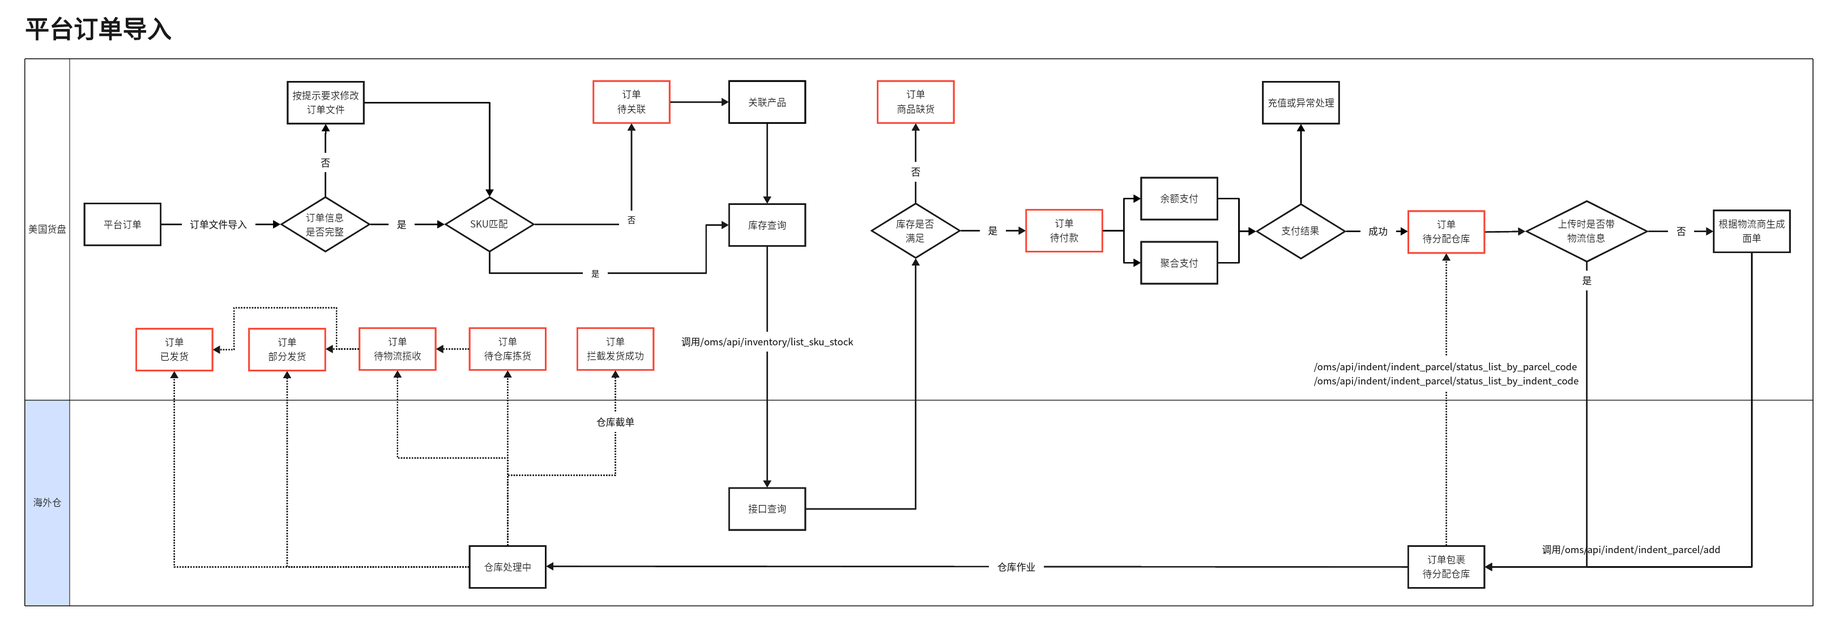
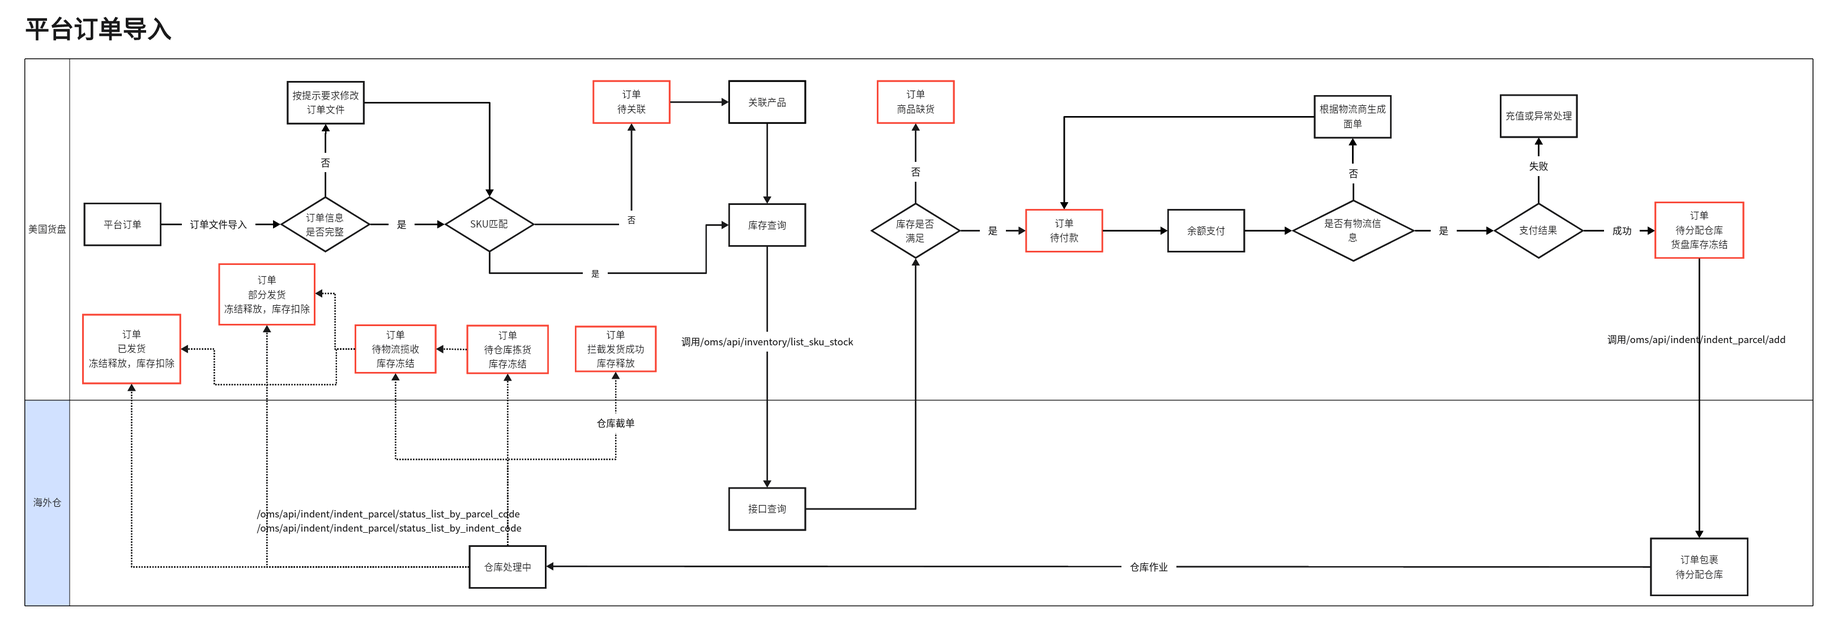
完善流程标注和页面展示

diff --git a/inbound.html b/inbound.html
@@ -37,7 +37,7 @@
 [data-html-annotator-inline-panel] .html-annotator-inline-tags { margin-top: 8px; color: #94a3b8; font-size: 11px; }
 </style></head>
 <body data-page="inbound" class="">
-<aside class="app-nav"><div class="nav-brand"><svg viewBox="0 0 24 24" fill="none" stroke="currentColor" stroke-width="1.8" aria-hidden="true"><path d="M3 9l9-7 9 7v11a2 2 0 0 1-2 2H5a2 2 0 0 1-2-2z"></path><path d="M9 22V12h6v10"></path></svg><span>工作管理平台</span></div><nav class="nav-list" aria-label="主导航"><a class="nav-primary" href="global-overview.html" data-nav="global-overview" title="全局说明"><svg viewBox="0 0 24 24" fill="none" stroke="currentColor" stroke-width="1.8" aria-hidden="true"><circle cx="12" cy="12" r="9"></circle><path d="M3 12h18M12 3a15 15 0 0 1 0 18M12 3a15 15 0 0 0 0 18"></path></svg><span>全局说明</span></a><div class="nav-group nav-hover-group nav-group-current"><div class="nav-group-toggle" tabindex="0" title="海外仓"><svg viewBox="0 0 24 24" fill="none" stroke="currentColor" stroke-width="1.8" aria-hidden="true"><path d="M4 7.5 12 3l8 4.5v9L12 21l-8-4.5z"></path><path d="m4 7.5 8 4.5 8-4.5M12 12v9"></path></svg><span>海外仓</span><svg class="nav-chevron" viewBox="0 0 24 24" fill="none" stroke="currentColor" stroke-width="2" aria-hidden="true"><path d="m7 10 5 5 5-5"></path></svg></div><div class="nav-children"><a class="nav-child active" href="inbound.html" data-nav="inbound">入库单管理</a><a class="nav-child" href="order-management.html" data-nav="orders">订单管理</a><a class="nav-child" href="index.html" data-nav="sku">库存管理</a><a class="nav-child" href="cargo-tray-management.html" data-nav="tray-management">美国货盘管理</a></div></div><div class="nav-group nav-hover-group"><div class="nav-group-toggle" tabindex="0" title="物流中心"><svg viewBox="0 0 24 24" fill="none" stroke="currentColor" stroke-width="1.8" aria-hidden="true"><path d="M3 6h11v11H3zM14 10h4l3 3v4h-7z"></path><circle cx="7" cy="19" r="2"></circle><circle cx="18" cy="19" r="2"></circle></svg><span>物流中心</span><svg class="nav-chevron" viewBox="0 0 24 24" fill="none" stroke="currentColor" stroke-width="2" aria-hidden="true"><path d="m7 10 5 5 5-5"></path></svg></div><div class="nav-children"><a class="nav-child" href="packaging-shipping.html" data-nav="packaging-shipping">包装发货</a></div></div><a class="nav-primary" href="cargo-tray-v2.html" data-nav="tray-v2" title="美国货盘"><svg viewBox="0 0 24 24" fill="none" stroke="currentColor" stroke-width="1.8" aria-hidden="true"><rect x="3" y="3" width="7" height="7" rx="1"></rect><rect x="14" y="3" width="7" height="7" rx="1"></rect><rect x="3" y="14" width="7" height="7" rx="1"></rect><rect x="14" y="14" width="7" height="7" rx="1"></rect></svg><span>美国货盘</span></a></nav><div class="nav-footer"></div></aside>
+<aside class="app-nav"><div class="nav-brand"><svg viewBox="0 0 24 24" fill="none" stroke="currentColor" stroke-width="1.8" aria-hidden="true"><path d="M3 9l9-7 9 7v11a2 2 0 0 1-2 2H5a2 2 0 0 1-2-2z"></path><path d="M9 22V12h6v10"></path></svg><span>工作管理平台</span></div><nav class="nav-list" aria-label="主导航"><a class="nav-primary" href="global-overview.html" data-nav="global-overview" title="业务流程"><svg viewBox="0 0 24 24" fill="none" stroke="currentColor" stroke-width="1.8" aria-hidden="true"><circle cx="12" cy="12" r="9"></circle><path d="M3 12h18M12 3a15 15 0 0 1 0 18M12 3a15 15 0 0 0 0 18"></path></svg><span>业务流程</span></a><div class="nav-group nav-hover-group nav-group-current"><div class="nav-group-toggle" tabindex="0" title="海外仓"><svg viewBox="0 0 24 24" fill="none" stroke="currentColor" stroke-width="1.8" aria-hidden="true"><path d="M4 7.5 12 3l8 4.5v9L12 21l-8-4.5z"></path><path d="m4 7.5 8 4.5 8-4.5M12 12v9"></path></svg><span>海外仓</span><svg class="nav-chevron" viewBox="0 0 24 24" fill="none" stroke="currentColor" stroke-width="2" aria-hidden="true"><path d="m7 10 5 5 5-5"></path></svg></div><div class="nav-children"><a class="nav-child active" href="inbound.html" data-nav="inbound">入库单管理</a><a class="nav-child" href="order-management.html" data-nav="orders">订单管理</a><a class="nav-child" href="index.html" data-nav="sku">库存管理</a><a class="nav-child" href="cargo-tray-management.html" data-nav="tray-management">美国货盘管理</a></div></div><div class="nav-group nav-hover-group"><div class="nav-group-toggle" tabindex="0" title="物流中心"><svg viewBox="0 0 24 24" fill="none" stroke="currentColor" stroke-width="1.8" aria-hidden="true"><path d="M3 6h11v11H3zM14 10h4l3 3v4h-7z"></path><circle cx="7" cy="19" r="2"></circle><circle cx="18" cy="19" r="2"></circle></svg><span>物流中心</span><svg class="nav-chevron" viewBox="0 0 24 24" fill="none" stroke="currentColor" stroke-width="2" aria-hidden="true"><path d="m7 10 5 5 5-5"></path></svg></div><div class="nav-children"><a class="nav-child" href="packaging-shipping.html" data-nav="packaging-shipping">包装发货</a></div></div><a class="nav-primary" href="cargo-tray-v2.html" data-nav="tray-v2" title="美国货盘"><svg viewBox="0 0 24 24" fill="none" stroke="currentColor" stroke-width="1.8" aria-hidden="true"><rect x="3" y="3" width="7" height="7" rx="1"></rect><rect x="14" y="3" width="7" height="7" rx="1"></rect><rect x="3" y="14" width="7" height="7" rx="1"></rect><rect x="14" y="14" width="7" height="7" rx="1"></rect></svg><span>美国货盘</span></a></nav><div class="nav-footer"></div></aside>
 <div class="app-content inbound-app-content"><div class="topbar"><div class="topbar-left"><label class="bm-search"><svg viewBox="0 0 24 24" fill="none" stroke="currentColor" stroke-width="2" aria-hidden="true"><circle cx="11" cy="11" r="7"></circle><path d="m20 20-4-4"></path></svg><input type="search" placeholder="请输入菜单" aria-label="搜索菜单"></label><h1>入库单管理</h1></div><div class="topbar-right"><div class="user"><button class="avatar" type="button" data-role-avatar="" aria-haspopup="dialog" aria-label="切换身份" title="切换身份">超</button></div></div></div><div class="bm-page-tabs"><div class="bm-page-tab active">入库单管理<button type="button" aria-label="关闭页面标签">×</button></div></div>
 <main class="inbound-page-body">
 <section class="inbound-filter-bar" aria-label="入库单筛选"><label class="inbound-filter-field"><span>分配仓库</span><select id="warehouse-filter" data-annotation-id="ann-1788939895866"><option>德州1号仓库</option><option>美西仓(洛杉矶)</option></select></label><label class="inbound-filter-field status-filter"><span>状态</span><select id="status-filter" data-annotation-id="ann-1788940701475"><option value="">状态</option><option>草稿</option><option>运输中</option><option>部分入库</option><option>全部入库</option><option>全部已上架</option><option>已取消</option></select></label><div class="inbound-filter-actions"><button class="inbound-primary-btn" id="inbound-search" type="button" data-annotation-id="ann-1788942127182"><svg viewBox="0 0 24 24"><circle cx="11" cy="11" r="7"></circle><path d="m20 20-4-4"></path></svg>搜索</button><button class="inbound-reset-btn" id="inbound-reset" type="button" data-annotation-id="ann-1788942135126"><svg viewBox="0 0 24 24"><path d="M4 12a8 8 0 0 1 13.7-5.6L20 9"></path><path d="M20 4v5h-5"></path><path d="M20 12a8 8 0 0 1-13.7 5.6L4 15"></path><path d="M4 20v-5h5"></path></svg>重置</button></div></section>

diff --git a/order-management.html b/order-management.html
@@ -36,7 +36,7 @@
 .notes-content .notes-document input[type="checkbox"] { margin-right:6px; }
 .notes-content .notes-document hr { margin:18px 0; border:0; border-top:1px solid #e2e8f0; }
 </style></head><body data-page="orders" class="">
-<aside class="app-nav"><div class="nav-brand"><svg viewBox="0 0 24 24" fill="none" stroke="currentColor" stroke-width="1.8" aria-hidden="true"><path d="M3 9l9-7 9 7v11a2 2 0 0 1-2 2H5a2 2 0 0 1-2-2z"></path><path d="M9 22V12h6v10"></path></svg><span>工作管理平台</span></div><nav class="nav-list" aria-label="主导航"><a class="nav-primary" href="global-overview.html" data-nav="global-overview" title="全局说明"><svg viewBox="0 0 24 24" fill="none" stroke="currentColor" stroke-width="1.8" aria-hidden="true"><circle cx="12" cy="12" r="9"></circle><path d="M3 12h18M12 3a15 15 0 0 1 0 18M12 3a15 15 0 0 0 0 18"></path></svg><span>全局说明</span></a><div class="nav-group nav-hover-group nav-group-current"><div class="nav-group-toggle" tabindex="0" title="海外仓"><svg viewBox="0 0 24 24" fill="none" stroke="currentColor" stroke-width="1.8" aria-hidden="true"><path d="M4 7.5 12 3l8 4.5v9L12 21l-8-4.5z"></path><path d="m4 7.5 8 4.5 8-4.5M12 12v9"></path></svg><span>海外仓</span><svg class="nav-chevron" viewBox="0 0 24 24" fill="none" stroke="currentColor" stroke-width="2" aria-hidden="true"><path d="m7 10 5 5 5-5"></path></svg></div><div class="nav-children"><a class="nav-child" href="inbound.html" data-nav="inbound">入库单管理</a><a class="nav-child active" href="order-management.html" data-nav="orders">订单管理</a><a class="nav-child" href="index.html" data-nav="sku">库存管理</a><a class="nav-child" href="cargo-tray-management.html" data-nav="tray-management">美国货盘管理</a></div></div><div class="nav-group nav-hover-group"><div class="nav-group-toggle" tabindex="0" title="物流中心"><svg viewBox="0 0 24 24" fill="none" stroke="currentColor" stroke-width="1.8" aria-hidden="true"><path d="M3 6h11v11H3zM14 10h4l3 3v4h-7z"></path><circle cx="7" cy="19" r="2"></circle><circle cx="18" cy="19" r="2"></circle></svg><span>物流中心</span><svg class="nav-chevron" viewBox="0 0 24 24" fill="none" stroke="currentColor" stroke-width="2" aria-hidden="true"><path d="m7 10 5 5 5-5"></path></svg></div><div class="nav-children"><a class="nav-child" href="packaging-shipping.html" data-nav="packaging-shipping">包装发货</a></div></div><a class="nav-primary" href="cargo-tray-v2.html" data-nav="tray-v2" title="美国货盘"><svg viewBox="0 0 24 24" fill="none" stroke="currentColor" stroke-width="1.8" aria-hidden="true"><rect x="3" y="3" width="7" height="7" rx="1"></rect><rect x="14" y="3" width="7" height="7" rx="1"></rect><rect x="3" y="14" width="7" height="7" rx="1"></rect><rect x="14" y="14" width="7" height="7" rx="1"></rect></svg><span>美国货盘</span></a></nav><div class="nav-footer"></div></aside>
+<aside class="app-nav"><div class="nav-brand"><svg viewBox="0 0 24 24" fill="none" stroke="currentColor" stroke-width="1.8" aria-hidden="true"><path d="M3 9l9-7 9 7v11a2 2 0 0 1-2 2H5a2 2 0 0 1-2-2z"></path><path d="M9 22V12h6v10"></path></svg><span>工作管理平台</span></div><nav class="nav-list" aria-label="主导航"><a class="nav-primary" href="global-overview.html" data-nav="global-overview" title="业务流程"><svg viewBox="0 0 24 24" fill="none" stroke="currentColor" stroke-width="1.8" aria-hidden="true"><circle cx="12" cy="12" r="9"></circle><path d="M3 12h18M12 3a15 15 0 0 1 0 18M12 3a15 15 0 0 0 0 18"></path></svg><span>业务流程</span></a><div class="nav-group nav-hover-group nav-group-current"><div class="nav-group-toggle" tabindex="0" title="海外仓"><svg viewBox="0 0 24 24" fill="none" stroke="currentColor" stroke-width="1.8" aria-hidden="true"><path d="M4 7.5 12 3l8 4.5v9L12 21l-8-4.5z"></path><path d="m4 7.5 8 4.5 8-4.5M12 12v9"></path></svg><span>海外仓</span><svg class="nav-chevron" viewBox="0 0 24 24" fill="none" stroke="currentColor" stroke-width="2" aria-hidden="true"><path d="m7 10 5 5 5-5"></path></svg></div><div class="nav-children"><a class="nav-child" href="inbound.html" data-nav="inbound">入库单管理</a><a class="nav-child active" href="order-management.html" data-nav="orders">订单管理</a><a class="nav-child" href="index.html" data-nav="sku">库存管理</a><a class="nav-child" href="cargo-tray-management.html" data-nav="tray-management">美国货盘管理</a></div></div><div class="nav-group nav-hover-group"><div class="nav-group-toggle" tabindex="0" title="物流中心"><svg viewBox="0 0 24 24" fill="none" stroke="currentColor" stroke-width="1.8" aria-hidden="true"><path d="M3 6h11v11H3zM14 10h4l3 3v4h-7z"></path><circle cx="7" cy="19" r="2"></circle><circle cx="18" cy="19" r="2"></circle></svg><span>物流中心</span><svg class="nav-chevron" viewBox="0 0 24 24" fill="none" stroke="currentColor" stroke-width="2" aria-hidden="true"><path d="m7 10 5 5 5-5"></path></svg></div><div class="nav-children"><a class="nav-child" href="packaging-shipping.html" data-nav="packaging-shipping">包装发货</a></div></div><a class="nav-primary" href="cargo-tray-v2.html" data-nav="tray-v2" title="美国货盘"><svg viewBox="0 0 24 24" fill="none" stroke="currentColor" stroke-width="1.8" aria-hidden="true"><rect x="3" y="3" width="7" height="7" rx="1"></rect><rect x="14" y="3" width="7" height="7" rx="1"></rect><rect x="3" y="14" width="7" height="7" rx="1"></rect><rect x="14" y="14" width="7" height="7" rx="1"></rect></svg><span>美国货盘</span></a></nav><div class="nav-footer"></div></aside>
 <div class="app-content">
   <div class="topbar"><div class="topbar-left"><label class="bm-search"><svg viewBox="0 0 24 24" fill="none" stroke="currentColor" stroke-width="2" aria-hidden="true"><circle cx="11" cy="11" r="7"></circle><path d="m20 20-4-4"></path></svg><input type="search" placeholder="请输入菜单" aria-label="搜索菜单"></label><h1>订单管理</h1></div><div class="topbar-right"><div class="user"><button class="avatar avatar--super" type="button" data-role-avatar="" aria-haspopup="dialog" aria-label="当前身份：超管，切换身份" title="当前身份：超管，点击切换">超</button></div></div></div><div class="bm-page-tabs"><div class="bm-page-tab active">订单管理<button type="button" aria-label="关闭页面标签">×</button></div></div>
   <main class="page-body ops-page-body">

diff --git a/cargo-tray-management.html b/cargo-tray-management.html
@@ -42,7 +42,7 @@
 <body data-page="tray-management" class="page-markers-hidden">
 <aside class="app-nav">
   <div class="nav-brand"><svg viewBox="0 0 24 24" fill="none" stroke="currentColor" stroke-width="1.8" aria-hidden="true"><path d="M3 9l9-7 9 7v11a2 2 0 0 1-2 2H5a2 2 0 0 1-2-2z"></path><path d="M9 22V12h6v10"></path></svg><span>工作管理平台</span></div>
-  <nav class="nav-list" aria-label="主导航"><a class="nav-primary" href="global-overview.html" data-nav="global-overview" title="全局说明"><svg viewBox="0 0 24 24" fill="none" stroke="currentColor" stroke-width="1.8" aria-hidden="true"><circle cx="12" cy="12" r="9"></circle><path d="M3 12h18M12 3a15 15 0 0 1 0 18M12 3a15 15 0 0 0 0 18"></path></svg><span>全局说明</span></a><div class="nav-group nav-hover-group nav-group-current"><div class="nav-group-toggle" tabindex="0" title="海外仓"><svg viewBox="0 0 24 24" fill="none" stroke="currentColor" stroke-width="1.8" aria-hidden="true"><path d="M4 7.5 12 3l8 4.5v9L12 21l-8-4.5z"></path><path d="m4 7.5 8 4.5 8-4.5M12 12v9"></path></svg><span>海外仓</span><svg class="nav-chevron" viewBox="0 0 24 24" fill="none" stroke="currentColor" stroke-width="2" aria-hidden="true"><path d="m7 10 5 5 5-5"></path></svg></div><div class="nav-children"><a class="nav-child" href="inbound.html" data-nav="inbound">入库单管理</a><a class="nav-child" href="order-management.html" data-nav="orders">订单管理</a><a class="nav-child" href="index.html" data-nav="sku">库存管理</a><a class="nav-child active" href="cargo-tray-management.html" data-nav="tray-management">美国货盘管理</a></div></div><div class="nav-group nav-hover-group"><div class="nav-group-toggle" tabindex="0" title="物流中心"><svg viewBox="0 0 24 24" fill="none" stroke="currentColor" stroke-width="1.8" aria-hidden="true"><path d="M3 6h11v11H3zM14 10h4l3 3v4h-7z"></path><circle cx="7" cy="19" r="2"></circle><circle cx="18" cy="19" r="2"></circle></svg><span>物流中心</span><svg class="nav-chevron" viewBox="0 0 24 24" fill="none" stroke="currentColor" stroke-width="2" aria-hidden="true"><path d="m7 10 5 5 5-5"></path></svg></div><div class="nav-children"><a class="nav-child" href="packaging-shipping.html" data-nav="packaging-shipping">包装发货</a></div></div><a class="nav-primary" href="cargo-tray-v2.html" data-nav="tray-v2" title="美国货盘"><svg viewBox="0 0 24 24" fill="none" stroke="currentColor" stroke-width="1.8" aria-hidden="true"><rect x="3" y="3" width="7" height="7" rx="1"></rect><rect x="14" y="3" width="7" height="7" rx="1"></rect><rect x="3" y="14" width="7" height="7" rx="1"></rect><rect x="14" y="14" width="7" height="7" rx="1"></rect></svg><span>美国货盘</span></a></nav>
+  <nav class="nav-list" aria-label="主导航"><a class="nav-primary" href="global-overview.html" data-nav="global-overview" title="业务流程"><svg viewBox="0 0 24 24" fill="none" stroke="currentColor" stroke-width="1.8" aria-hidden="true"><circle cx="12" cy="12" r="9"></circle><path d="M3 12h18M12 3a15 15 0 0 1 0 18M12 3a15 15 0 0 0 0 18"></path></svg><span>业务流程</span></a><div class="nav-group nav-hover-group nav-group-current"><div class="nav-group-toggle" tabindex="0" title="海外仓"><svg viewBox="0 0 24 24" fill="none" stroke="currentColor" stroke-width="1.8" aria-hidden="true"><path d="M4 7.5 12 3l8 4.5v9L12 21l-8-4.5z"></path><path d="m4 7.5 8 4.5 8-4.5M12 12v9"></path></svg><span>海外仓</span><svg class="nav-chevron" viewBox="0 0 24 24" fill="none" stroke="currentColor" stroke-width="2" aria-hidden="true"><path d="m7 10 5 5 5-5"></path></svg></div><div class="nav-children"><a class="nav-child" href="inbound.html" data-nav="inbound">入库单管理</a><a class="nav-child" href="order-management.html" data-nav="orders">订单管理</a><a class="nav-child" href="index.html" data-nav="sku">库存管理</a><a class="nav-child active" href="cargo-tray-management.html" data-nav="tray-management">美国货盘管理</a></div></div><div class="nav-group nav-hover-group"><div class="nav-group-toggle" tabindex="0" title="物流中心"><svg viewBox="0 0 24 24" fill="none" stroke="currentColor" stroke-width="1.8" aria-hidden="true"><path d="M3 6h11v11H3zM14 10h4l3 3v4h-7z"></path><circle cx="7" cy="19" r="2"></circle><circle cx="18" cy="19" r="2"></circle></svg><span>物流中心</span><svg class="nav-chevron" viewBox="0 0 24 24" fill="none" stroke="currentColor" stroke-width="2" aria-hidden="true"><path d="m7 10 5 5 5-5"></path></svg></div><div class="nav-children"><a class="nav-child" href="packaging-shipping.html" data-nav="packaging-shipping">包装发货</a></div></div><a class="nav-primary" href="cargo-tray-v2.html" data-nav="tray-v2" title="美国货盘"><svg viewBox="0 0 24 24" fill="none" stroke="currentColor" stroke-width="1.8" aria-hidden="true"><rect x="3" y="3" width="7" height="7" rx="1"></rect><rect x="14" y="3" width="7" height="7" rx="1"></rect><rect x="3" y="14" width="7" height="7" rx="1"></rect><rect x="14" y="14" width="7" height="7" rx="1"></rect></svg><span>美国货盘</span></a></nav>
   <div class="nav-footer"></div>
 </aside>
 

diff --git a/index.html b/index.html
@@ -43,7 +43,7 @@
 
 <aside class="app-nav">
   <div class="nav-brand"><svg viewBox="0 0 24 24" fill="none" stroke="currentColor" stroke-width="1.8" aria-hidden="true"><path d="M3 9l9-7 9 7v11a2 2 0 0 1-2 2H5a2 2 0 0 1-2-2z"></path><path d="M9 22V12h6v10"></path></svg><span>工作管理平台</span></div>
-  <nav class="nav-list" aria-label="主导航"><a class="nav-primary" href="global-overview.html" data-nav="global-overview" title="全局说明"><svg viewBox="0 0 24 24" fill="none" stroke="currentColor" stroke-width="1.8" aria-hidden="true"><circle cx="12" cy="12" r="9"></circle><path d="M3 12h18M12 3a15 15 0 0 1 0 18M12 3a15 15 0 0 0 0 18"></path></svg><span>全局说明</span></a><div class="nav-group nav-hover-group nav-group-current"><div class="nav-group-toggle" tabindex="0" title="海外仓"><svg viewBox="0 0 24 24" fill="none" stroke="currentColor" stroke-width="1.8" aria-hidden="true"><path d="M4 7.5 12 3l8 4.5v9L12 21l-8-4.5z"></path><path d="m4 7.5 8 4.5 8-4.5M12 12v9"></path></svg><span>海外仓</span><svg class="nav-chevron" viewBox="0 0 24 24" fill="none" stroke="currentColor" stroke-width="2" aria-hidden="true"><path d="m7 10 5 5 5-5"></path></svg></div><div class="nav-children"><a class="nav-child" href="inbound.html" data-nav="inbound">入库单管理</a><a class="nav-child" href="order-management.html" data-nav="orders">订单管理</a><a class="nav-child active" href="index.html" data-nav="sku">库存管理</a><a class="nav-child" href="cargo-tray-management.html" data-nav="tray-management">美国货盘管理</a></div></div><div class="nav-group nav-hover-group"><div class="nav-group-toggle" tabindex="0" title="物流中心"><svg viewBox="0 0 24 24" fill="none" stroke="currentColor" stroke-width="1.8" aria-hidden="true"><path d="M3 6h11v11H3zM14 10h4l3 3v4h-7z"></path><circle cx="7" cy="19" r="2"></circle><circle cx="18" cy="19" r="2"></circle></svg><span>物流中心</span><svg class="nav-chevron" viewBox="0 0 24 24" fill="none" stroke="currentColor" stroke-width="2" aria-hidden="true"><path d="m7 10 5 5 5-5"></path></svg></div><div class="nav-children"><a class="nav-child" href="packaging-shipping.html" data-nav="packaging-shipping">包装发货</a></div></div><a class="nav-primary" href="cargo-tray-v2.html" data-nav="tray-v2" title="美国货盘"><svg viewBox="0 0 24 24" fill="none" stroke="currentColor" stroke-width="1.8" aria-hidden="true"><rect x="3" y="3" width="7" height="7" rx="1"></rect><rect x="14" y="3" width="7" height="7" rx="1"></rect><rect x="3" y="14" width="7" height="7" rx="1"></rect><rect x="14" y="14" width="7" height="7" rx="1"></rect></svg><span>美国货盘</span></a></nav>
+  <nav class="nav-list" aria-label="主导航"><a class="nav-primary" href="global-overview.html" data-nav="global-overview" title="业务流程"><svg viewBox="0 0 24 24" fill="none" stroke="currentColor" stroke-width="1.8" aria-hidden="true"><circle cx="12" cy="12" r="9"></circle><path d="M3 12h18M12 3a15 15 0 0 1 0 18M12 3a15 15 0 0 0 0 18"></path></svg><span>业务流程</span></a><div class="nav-group nav-hover-group nav-group-current"><div class="nav-group-toggle" tabindex="0" title="海外仓"><svg viewBox="0 0 24 24" fill="none" stroke="currentColor" stroke-width="1.8" aria-hidden="true"><path d="M4 7.5 12 3l8 4.5v9L12 21l-8-4.5z"></path><path d="m4 7.5 8 4.5 8-4.5M12 12v9"></path></svg><span>海外仓</span><svg class="nav-chevron" viewBox="0 0 24 24" fill="none" stroke="currentColor" stroke-width="2" aria-hidden="true"><path d="m7 10 5 5 5-5"></path></svg></div><div class="nav-children"><a class="nav-child" href="inbound.html" data-nav="inbound">入库单管理</a><a class="nav-child" href="order-management.html" data-nav="orders">订单管理</a><a class="nav-child active" href="index.html" data-nav="sku">库存管理</a><a class="nav-child" href="cargo-tray-management.html" data-nav="tray-management">美国货盘管理</a></div></div><div class="nav-group nav-hover-group"><div class="nav-group-toggle" tabindex="0" title="物流中心"><svg viewBox="0 0 24 24" fill="none" stroke="currentColor" stroke-width="1.8" aria-hidden="true"><path d="M3 6h11v11H3zM14 10h4l3 3v4h-7z"></path><circle cx="7" cy="19" r="2"></circle><circle cx="18" cy="19" r="2"></circle></svg><span>物流中心</span><svg class="nav-chevron" viewBox="0 0 24 24" fill="none" stroke="currentColor" stroke-width="2" aria-hidden="true"><path d="m7 10 5 5 5-5"></path></svg></div><div class="nav-children"><a class="nav-child" href="packaging-shipping.html" data-nav="packaging-shipping">包装发货</a></div></div><a class="nav-primary" href="cargo-tray-v2.html" data-nav="tray-v2" title="美国货盘"><svg viewBox="0 0 24 24" fill="none" stroke="currentColor" stroke-width="1.8" aria-hidden="true"><rect x="3" y="3" width="7" height="7" rx="1"></rect><rect x="14" y="3" width="7" height="7" rx="1"></rect><rect x="3" y="14" width="7" height="7" rx="1"></rect><rect x="14" y="14" width="7" height="7" rx="1"></rect></svg><span>美国货盘</span></a></nav>
   <div class="nav-footer"></div>
 </aside>
 

diff --git a/global-overview.html b/global-overview.html
@@ -3,7 +3,7 @@
 <head>
   <meta charset="UTF-8">
   <meta name="viewport" content="width=device-width,initial-scale=1.0">
-  <title>全局说明 — 美国货盘PRD</title>
+  <title>业务流程 — 美国货盘PRD</title>
   <link rel="stylesheet" href="styles.css?v=20260907-global-overview-image">
   <script src="navigation.js?v=20260901-auth-state" defer></script>
 </head>
@@ -16,22 +16,28 @@
 
 <div class="app-content">
   <div class="topbar">
-    <div class="topbar-left"><h1>全局说明</h1></div>
+    <div class="topbar-left"><h1>业务流程</h1></div>
     <div class="topbar-right"><div class="user"><button class="avatar" type="button" data-role-avatar aria-haspopup="dialog" aria-label="切换身份" title="切换身份">超</button></div></div>
   </div>
   <main class="page-body global-overview-body">
-    <section class="global-overview-image page-section" aria-label="项目流程图">
+    <section class="global-overview-image page-section" aria-label="业务流程图">
       <button class="global-overview-image-trigger" id="global-overview-image-trigger" type="button" data-preview-src="assets/海外仓入库.png" aria-label="放大查看海外仓入库流程图">
         <img src="assets/海外仓入库.png" alt="海外仓入库流程图">
       </button>
+      <button class="global-overview-image-trigger" type="button" data-preview-src="assets/海外仓入库流程解析.png" aria-label="放大查看海外仓入库流程解析">
+        <img src="assets/海外仓入库流程解析.png" alt="海外仓入库流程解析">
+      </button>
       <button class="global-overview-image-trigger" type="button" data-preview-src="assets/平台订单导入.png" aria-label="放大查看平台订单导入流程图">
         <img src="assets/平台订单导入.png" alt="平台订单导入流程图">
+      </button>
+      <button class="global-overview-image-trigger" type="button" data-preview-src="assets/平台订单导入流程解析.png" aria-label="放大查看平台订单导入流程解析">
+        <img src="assets/平台订单导入流程解析.png" alt="平台订单导入流程解析">
       </button>
     </section>
   </main>
 </div>
 
-<div class="global-image-preview" id="global-image-preview" role="dialog" aria-modal="true" aria-label="平台订单导入流程图原图" hidden>
+<div class="global-image-preview" id="global-image-preview" role="dialog" aria-modal="true" aria-label="业务流程图原图" hidden>
   <button class="global-image-preview-close" id="global-image-preview-close" type="button" aria-label="关闭原图预览" title="关闭">&times;</button>
   <img src="assets/平台订单导入.png" alt="平台订单导入流程图原图">
 </div>
@@ -41,7 +47,6 @@
 <script src="notes.js?v=20260828-local-prd-v2"></script>
 <script>
 (function(){
-  var trigger=document.getElementById('global-overview-image-trigger');
   var triggers=document.querySelectorAll('.global-overview-image-trigger');
   var preview=document.getElementById('global-image-preview');
   var closeButton=document.getElementById('global-image-preview-close');

diff --git a/navigation.js b/navigation.js
@@ -117,7 +117,7 @@
   if(brand)brand.innerHTML='<svg viewBox="0 0 24 24" fill="none" stroke="currentColor" stroke-width="1.8" aria-hidden="true"><path d="M3 9l9-7 9 7v11a2 2 0 0 1-2 2H5a2 2 0 0 1-2-2z"></path><path d="M9 22V12h6v10"></path></svg><span>工作管理平台</span>';
   nav.setAttribute('aria-label','主导航');
   nav.innerHTML=
-    '<a class="nav-primary'+active('global-overview')+'" href="global-overview.html" data-nav="global-overview" title="全局说明">'+globalIcon+'<span>全局说明</span></a>'
+    '<a class="nav-primary'+active('global-overview')+'" href="global-overview.html" data-nav="global-overview" title="业务流程">'+globalIcon+'<span>业务流程</span></a>'
     +'<div class="nav-group nav-hover-group'+current(['orders','sku','tray-management','inbound'])+'">'
       +'<div class="nav-group-toggle" tabindex="0" title="海外仓">'+inventoryIcon+'<span>海外仓</span>'+chevron+'</div>'
       +'<div class="nav-children"><a class="nav-child'+active('inbound')+'" href="inbound.html" data-nav="inbound">入库单管理</a><a class="nav-child'+active('orders')+'" href="order-management.html" data-nav="orders">订单管理</a><a class="nav-child'+active('sku')+'" href="index.html" data-nav="sku">库存管理</a><a class="nav-child'+active('tray-management')+'" href="cargo-tray-management.html" data-nav="tray-management">美国货盘管理</a></div>'

diff --git a/notes.js b/notes.js
@@ -84,7 +84,7 @@
     orders:{title:'订单管理注释'},
     'tray-management':{title:'美国货盘管理注释'},
     'packaging-shipping':{title:'包装发货注释'},
-    'global-overview':{title:'全局说明注释'},
+    'global-overview':{title:'业务流程注释'},
     login:{title:'登录注释'}
   };
   var note=pageNotes[pageKey]||{title:'当前菜单注释'};
